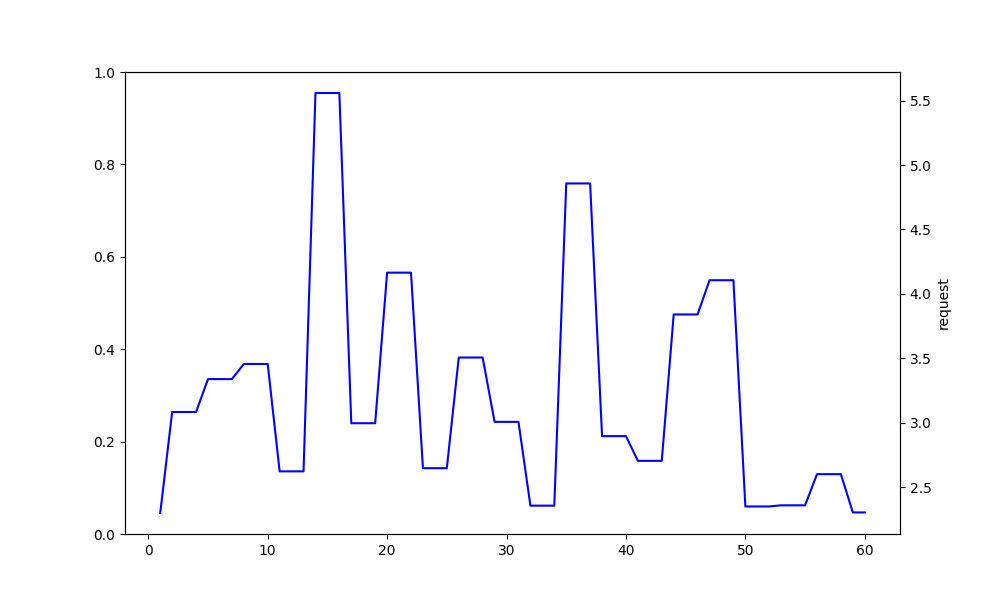
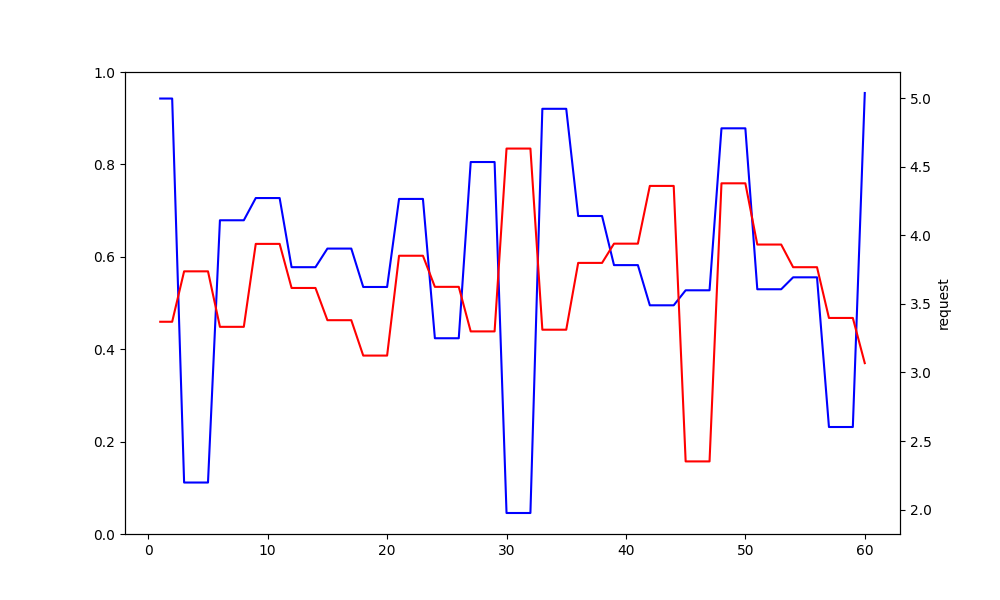
documentation to video pipeline added

diff --git a/LoadGenerator/LoadGen.py b/LoadGenerator/LoadGen.py
@@ -7,8 +7,9 @@ import PIL
 from PIL import Image
 from typing import Dict
 from abc import ABC, abstractmethod
-from multiprocessing import Process
+from multiprocessing import Process, Manager
 import numpy as np
+from PIL import ImageFile
 
 from seldon_core.seldon_client import SeldonClient
 
@@ -25,6 +26,7 @@ import math
 
 
 def nextParam():
+    return 3
     return random.randint(5, 20)
 
 def image_loader(folder_path, image_name):
@@ -38,7 +40,10 @@ def image_loader(folder_path, image_name):
         
 class StressGenerator:
     def __init__(self, url=None, is_dataset = False,mode='seldon', data_path = None):
-        self.final_data = []
+        manager = Manager()
+        self.final_data = manager.dict()
+
+        # self.final_data = []
         self.url = url
         self.is_dataset = is_dataset
         self.data_path = data_path
@@ -190,7 +195,7 @@ class StressGeneratorSeldon(StressGenerator):
         self.deployment_name = deployment_name
         self.namespace = namespace
         self.num_loaded_images = 2
-
+        ImageFile.LOAD_TRUNCATED_IMAGES = True
         self.image_names = os.listdir(self.dataset_folder_path)
         self.image_names.sort()
         self.sc = SeldonClient(
@@ -223,6 +228,7 @@ class StressGeneratorSeldon(StressGenerator):
                 
                 image_name, image = list(self.images.items())[random.randint(0,len(self.images)-1)]
                 image = np.array(image)
+                print(f"{index} send")
                 response = self.sc.predict(
                     data=image
                 )
@@ -230,14 +236,17 @@ class StressGeneratorSeldon(StressGenerator):
                 if response.success:
                     request_path = response.response['meta']['requestPath'].keys()
                     pipeline_response = response.response['jsonData']
-
+                    print(f"done {index}")
                     end_time = int(round(time.time() * 1000))
-                    self.final_data.append((index, 200, 1, start_time, end_time, end_time - start_time))
-                    
+                    item = self.final_data['list_item'] = list()
+                    item.append((index, 200, 1, start_time, end_time, end_time - start_time))
+                    self.final_data['list_item'] = item
+                    return self.final_data
                 
            
 
-        except :
+        except Exception as e :
+            print(f"there is error {e}")
             return (self.url, 404)
         return (self.url, 400)
 
@@ -258,7 +267,7 @@ deployment_name = 'inferline-preprocess'
 transport='rest'
 gateway='istio'
 gateway_endpoint="localhost:32000"
-namespace='saeid'
+namespace='alrieza'
 seldon = StressGeneratorSeldon(
         data_folder_path = data_folder_path,
         dataset_folder_path = dataset_folder_path,

diff --git a/LoadGenerator/prom_client.py b/LoadGenerator/prom_client.py
@@ -122,21 +122,24 @@ class PromClient:
         self.request_byte_istio()
         self.request_number()
 
-    def cpu_by_deployment(self):
-        query = 'rate(container_cpu_usage_seconds_total{pod=~"%s.*"}[1m])[10m:10s]' % self.deployment_name
+    def cpu_by_deployment(self, image_pattern):
+        query = f'rate(container_cpu_usage_seconds_total{{pod=~"{self.deployment_name}.*", image=~".+{image_pattern}.*"}}[1m])[10m:10s]' 
         response_cpu_usage = requests.get(PROMETHEUS + '/api/v1/query', params={'query' : query })
-        plot_values = []
-        print(response_request_istion.json()['data'])
-        for value in response_cpu_usage.json()['data']['result'][0]['values']:
-            plot_values.append((float(value[1]))*100)
+        plot_values = [[] for _ in range(len(response_cpu_usage.json()['data']['result']))]
+        print(response_cpu_usage.json()['data'])
+        for i in range(len(response_cpu_usage.json()['data']['result'])):
+            for value in response_cpu_usage.json()['data']['result'][i]['values']:
+                plot_values[i].append((float(value[1]))*100)
 
         fig, ax = plt.subplots(figsize=(10, 6))
 
         axb = ax.twinx()
         axb.set_ylabel('request')
         print(plot_values)
-        axb.plot([i for i in range(1,len(plot_values)+ 1)], plot_values, color='blue', label='pressure')
+        axb.plot([i for i in range(1,len(plot_values[0])+ 1)], plot_values[0], color='blue', label='pressure')
+        axb.plot([i for i in range(1,len(plot_values[1])+ 1)], plot_values[1], color='red', label='pressure')
+
         plt.savefig('req.png')
 
 pr = PromClient(deployment_name = "inferline-preprocess")
-pr.cpu_by_deployment()
+pr.cpu_by_deployment('sdghafouri')

diff --git a/pipelines/14-inferline-ours-main/video-monitoring/seldon-core-version/nodes/video-combiner/video_combiner.py b/pipelines/14-inferline-ours-main/video-monitoring/seldon-core-version/nodes/video-combiner/video_combiner.py
@@ -9,35 +9,4 @@ class VideoCombiner:
         logger.info(f"input type: {type(features)}")
         logger.info(f"input element type: {type(features[0])}")
         output = [elm.tolist() for elm in features]
-        # final_output = {}
-        # for feature in features:
-        #     model_name = feature['model_name']
-        #     model_percentages = feature['percentages']
-        #     model_ouptut = {}
-        #     max_prob_percentage = max(model_percentages)
-        #     max_prob_class = np.argmax(model_percentages)
-        #     model_ouptut = {
-        #         'max_prob_class': int(max_prob_class),
-        #         'max_prob_percentage': max_prob_percentage,
-        #         'percentages': model_percentages
-        #     }
-        #     final_output[model_name] = model_ouptut
-        #     logger.info("-" * 80)
-        #     logger.info(f"model_name: {model_name}")
-        #     logger.info(f"max_prob_class: {max_prob_class}")
-        # ensemble_max_prob_percentages = sum(
-        #     map(lambda x: np.array(
-        #         x['percentages']),
-        #         final_output.values()))/len(final_output)
-        # ensemble_max_prob_percentage = max(
-        #     ensemble_max_prob_percentages)
-        # ensemble_max_prob_class = np.argmax(
-        #     ensemble_max_prob_percentages)
-        # ensemble_output = {
-        #     'max_prob_class': int(ensemble_max_prob_class),
-        #     'max_prob_percentage': float(ensemble_max_prob_percentage),
-        #     'percentages': ensemble_max_prob_percentages.tolist() 
-        # }
-        # final_output['ensemble_output'] = ensemble_output
-        # return final_output
         return output

diff --git a/pipelines/14-inferline-ours-main/preprocess/seldon-core-version/client.py b/pipelines/14-inferline-ours-main/preprocess/seldon-core-version/client.py
@@ -37,7 +37,7 @@ images = {
 # single node inferline
 gateway_endpoint="localhost:32000"
 deployment_name = 'inferline-preprocess'
-namespace = "saeid"
+namespace = "alrieza"
 sc = SeldonClient(
     gateway_endpoint=gateway_endpoint,
     gateway="istio",
@@ -55,7 +55,6 @@ for image_name, image in images.items():
 
 for image_name, response in results.items():
     print(f"\nimage name: {image_name}")
-    print(response)
     if response.success:
 
         request_path = response.response['meta']['requestPath'].keys()

diff --git a/pipelines/14-inferline-ours-main/cascade/seldon-core-version/client.py b/pipelines/14-inferline-ours-main/cascade/seldon-core-version/client.py
@@ -2,6 +2,7 @@ import os
 import PIL
 from PIL import Image
 from typing import Dict
+from PIL import ImageFile
 
 import numpy as np
 
@@ -37,7 +38,7 @@ images = {
 # single node inferline
 gateway_endpoint="localhost:32000"
 deployment_name = 'inferline-cascade-with-preprocessor'
-namespace = "saeid"
+namespace = "alrieza"
 sc = SeldonClient(
     gateway_endpoint=gateway_endpoint,
     gateway="istio",
